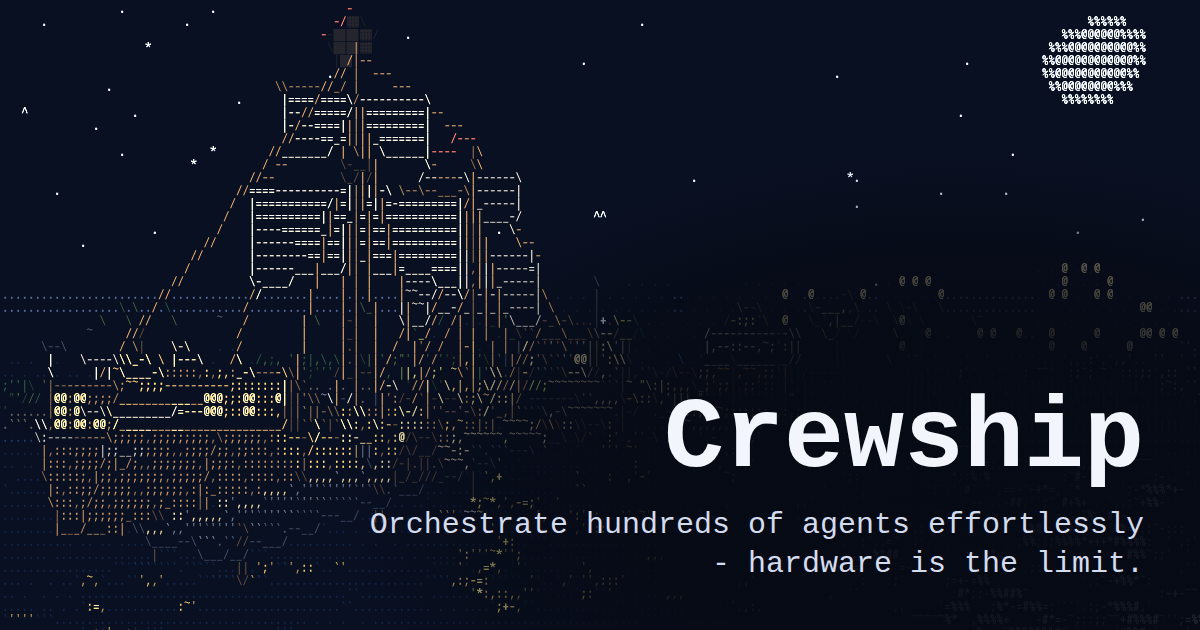
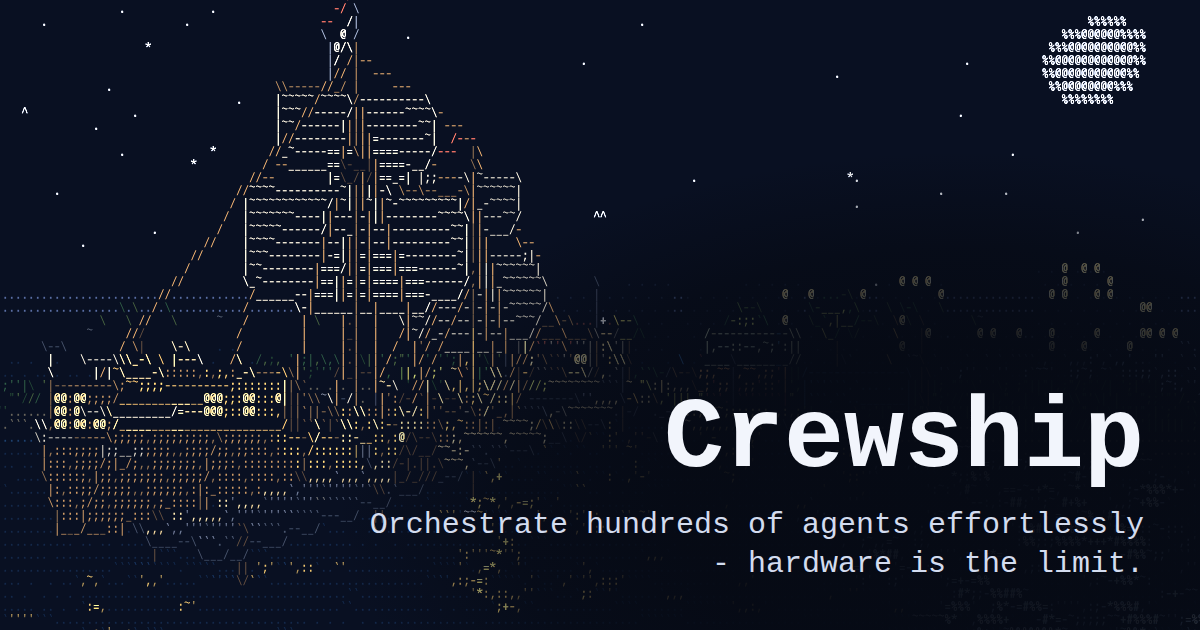
feat(harbor): sag the sail feet and fly a black Jolly Roger
From the default and bow views the sails still read as flat panels
with a blotchy bright patch. Each foot now sags in an arc between its
corners and the sides bow out. The canvas shading now follows the
belly: it is brightest where the cloth stands out farthest and a few
glyph steps darker toward the edges, with no seam lines across it.

The flag read as a dark grey square. It is now a larger black flag:
only its pale outline, its folds and a pale skull and crossbones
show, and its fly edge waves as it streams with the pennant.

Changed region(s): [[0.185, 0.1508, 0.4625, 0.5429], [0.2775, 0.0, 0.3083, 0.1206], [0.37, 0.5429, 0.4008, 0.573]]

diff --git a/harbor/public/harbor.js b/harbor/public/harbor.js
@@ -95,41 +95,50 @@ function beam(list, a, b, mat, o = {}, r = 0.03) {
   const bb = [...a.map((c, i) => Math.min(c, b[i]) - r), ...a.map((c, i) => Math.max(c, b[i]) + r)];
   return solid(list, planes, bb, mat, { solid: false, thin: true, ...o });
 }
-// Cloth hangs from `at`: u runs along the level unit (cu, su), v runs down to its foot, and the cloth stands out
-// clothDepth along the level normal (-su, cu). size is [u0, u1, v1, w0, w1]; rays search the box that holds every shape
-// the cloth takes. shape sets the wind's belly (and its resting value, base), a flag's ripple and its phase, and roach,
-// how far the foot arches up between the corners. Every cloth has the same fields, so the ray tests stay monomorphic.
+// Cloth hangs from `at`: u runs along the level unit (cu, su), v runs down, and the cloth stands out clothDepth along
+// the level normal (-su, cu). size is [u0, u1, v1, w0, w1]: rays search the box that holds every shape the cloth takes,
+// and clothInside trims that to the cloth's outline. shape sets half, the cloth's half width (a flag's length); the
+// wind's belly and its resting value, base; how far the foot sags (sag, of v1) and the leeches bow out (bow, of half);
+// or a flag's ripple and its phase. Every cloth has the same fields, so the ray tests stay monomorphic.
 function cloth(list, at, cu, su, [u0, u1, v1, w0, w1], shape, mat, o) {
   const xs = [], zs = [];
   for (const u of [u0, u1]) for (const w of [w0, w1]) { xs.push(at[0] + u * cu - w * su); zs.push(at[2] + u * su + w * cu); }
   const s = box(list, Math.min(...xs), at[1] - v1, Math.min(...zs), Math.max(...xs), at[1], Math.max(...zs), mat, { solid: false, thin: true, ...o });
-  s.cloth = { at, cu, su, u0, u1, v1, w0, w1, ku: 1 / u1, kv: 1 / v1, base: 0, belly: 0, ripple: 0, phase: 0, roach: 0, ...shape };
+  s.cloth = { at, cu, su, u0, u1, v1, w0, w1, half: shape.half, ku: 1 / shape.half, kv: 1 / v1, base: 0, belly: 0, sag: 0, bow: 0,
+    ripple: 0, phase: 0, ...shape };
   return s.cloth;
 }
 // How far cloth k stands out at (u, v): a polynomial belly, deepest low across the middle and shallower toward the
-// corners, or a ripple that grows toward a flag's fly. Rays evaluate it often, so the belly uses products, not quotients
-// or Math.sin.
+// corners, or a ripple that grows toward a flag's fly. Rays evaluate it often, so the belly uses products, not
+// quotients or Math.sin.
 function clothDepth(k, u, v) {
   const a = u * k.ku, b = v * k.kv;
   if (k.ripple) return k.ripple * a * Math.sin(u * 2.4 + v * 0.5 - k.phase);
-  return k.belly * ((1 - a * a) * b * (2.6 - 1.8 * b) + 0.3 * b * b);
+  return k.belly * (Math.max(0, 1 - a * a) * b * (2.6 - 1.8 * b) + 0.3 * b * b);
 }
 // The change of clothDepth along u and along v, in SLOPE.
 const SLOPE = new Float64Array(2);
 function clothSlope(k, u, v) {
-  const a = u * k.ku, b = v * k.kv;
+  const a = u * k.ku, b = v * k.kv, across = Math.max(0, 1 - a * a);
   if (k.ripple) {
     const p = u * 2.4 + v * 0.5 - k.phase, c = Math.cos(p);
     SLOPE[0] = k.ripple * k.ku * (Math.sin(p) + 2.4 * u * c); SLOPE[1] = k.ripple * k.ku * 0.5 * u * c;
     return;
   }
-  SLOPE[0] = -2 * a * b * (2.6 - 1.8 * b) * k.belly * k.ku;
-  SLOPE[1] = ((1 - a * a) * (2.6 - 3.6 * b) + 0.6 * b) * k.belly * k.kv;
+  SLOPE[0] = across > 0 ? -2 * a * b * (2.6 - 1.8 * b) * k.belly * k.ku : 0;
+  SLOPE[1] = (across * (2.6 - 3.6 * b) + 0.6 * b) * k.belly * k.kv;
 }
-// How far down cloth k reaches at u.
+// How far down cloth k reaches at u: a sail's foot sags in an arc between its corners.
 function clothFoot(k, u) {
   const a = u * k.ku;
-  return k.v1 * (1 - k.roach * (1 - a * a));
+  return k.v1 * (1 - k.sag * a * a);
+}
+// Is (u, v) on cloth k? Above the foot, and within the leeches, which bow out between the head and the corners; a
+// flag's fly edge waves instead.
+function clothInside(k, u, v) {
+  const a = u * k.ku, c = Math.min(1, v * k.kv / (1 - k.sag));
+  if (k.ripple) return a <= 0.9 + 0.1 * Math.sin(v * 5 - k.phase);
+  return v <= clothFoot(k, u) && Math.abs(a) <= 1 + k.bow * 4 * c * (1 - c);
 }
 // The point of cloth k at (u, v), written into p.
 function clothPoint(k, u, v, p = [0, 0, 0]) {
@@ -617,26 +626,27 @@ shipLantern(1.15, DECK, 3, false, 0.7);
 shipLantern(SX - 3.55, DECK, -4, false, SX - 3.1);
 shipLantern(SX, 2.63, 10, true);
 // Square canvas hangs from horizontal yards braced round on each mast, and the wind across a sail fills it to leeward:
-// the head stays on its yard, the belly is deepest across the middle low down, the corners sag less, and the foot
-// arches up between them.
+// the head stays on its yard, the belly is deepest across the middle low down, the foot sags in an arc between the
+// corners, and the leeches bow out.
 const SAILS = [];
 function squareSail(z, top, width, drop) {
   const c = Math.cos(0.6), s = Math.sin(0.6), belly = 0.45 * width * WIND.strength * (WIND.z * c - WIND.x * s);
-  // The deepest canvas above the foot stands 1.09 bellies out, and up to 10% more as the sail breathes.
-  const deep = 1.2 * belly;
+  // The corners hang drop - 0.1 below the yard, and the foot sags 13% lower between them. The deepest canvas stands
+  // 1.13 bellies out, and up to 10% more as the sail breathes.
+  const sag = 0.13, bow = 0.08, v1 = (drop - 0.1) / (1 - sag), deep = 1.25 * belly;
   beam(ship, [SX - (width + 0.2) * c, top, z - (width + 0.2) * s],
     [SX + (width + 0.2) * c, top, z + (width + 0.2) * s],
     "o", { spot: "mast", anchor: false, fill: 0.5 }, 0.075);
-  const sail = cloth(ship, [SX, top - 0.1, z], c, s, [-width, width, drop - 0.1, Math.min(0, deep), Math.max(0, deep)],
-    { base: belly, belly, roach: 0.3 }, "s", { tex: sailTexture, fill: 0.8 });
+  const sail = cloth(ship, [SX, top - 0.1, z], c, s, [-width * (1 + bow), width * (1 + bow), v1, Math.min(0, deep), Math.max(0, deep)],
+    { half: width, base: belly, belly, sag, bow }, "s", { tex: sailTexture, fill: 0.8 });
   SAILS.push(sail);
   return sail;
 }
-// Seams between the cloths and reef bands, each about one cell (`cell` metres) wide, in the sail's own (u, v): they
-// follow the canvas as it fills, so they bunch and bow where it curves away. Farther off, where cells grow past a
-// quarter metre, the lines would cover much of the canvas, so they are left out.
-function sailTexture(u, v, cell) {
-  return cell < 0.25 && ((u + 100) % 1.25 < cell * 0.6 || (v + 0.4) % 1.6 < cell * 1.2) ? "-" : null;
+// Two reef bands, each about one cell (`cell` metres) thick, cross the canvas parallel to its sagging foot. Farther off,
+// where cells grow past a quarter metre, the bands would cover much of the canvas, so they are left out.
+function sailTexture(u, v, cell, k) {
+  const foot = clothFoot(k, u), s = 3 * v / foot;
+  return cell < 0.25 && s > 0.5 && s < 2.5 && Math.abs(s - Math.round(s)) * foot / 3 < cell * 0.6 ? "-" : null;
 }
 const RIGGING = [], CLEWS = [];
 function shipMast(z, foot, height, width) {
@@ -647,14 +657,14 @@ function shipMast(z, foot, height, width) {
       const [w, y] = shipProfile(z + dz);
       shipRope([SX, height - 3, z], [SX + side * w, y + 0.3, z + dz]);
     }
-    sheet(topsail, side, clothPoint(course, side * course.u1, 0));
+    sheet(topsail, side, clothPoint(course, side * course.half, 0));
     sheet(course, side);
   }
 }
 // A sheet runs taut from a sail's lower corner, which moves as the canvas fills, to `to`: by default the rail
 // 2.5 m aft of the corner.
 function sheet(sail, side, to) {
-  const clew = clothPoint(sail, side * sail.u1, sail.v1);
+  const clew = clothPoint(sail, side * sail.half, clothFoot(sail, side * sail.half));
   CLEWS.push([sail, side, clew]);
   if (!to) {
     const z = clew[2] - 2.5, [w, y] = shipProfile(z);
@@ -726,17 +736,21 @@ function drawRigging() {
   }
 }
 column(ship, SX, -3, 0.8, 0.85, 13.7, 14.4, "o", { spot: "nest", tex: (x, y) => (y < 13.85 ? "-" : null) });
-// The flagstaff tops the main mast. The black flag streams downwind from it, rippling out to the fly.
-column(ship, SX, -3, 0.055, 0.055, 20.5, 22.7, "o", { solid: false, fill: 0.42 });
-const FLAG = cloth(ship, [SX, 22.1, -3], WIND.x, WIND.z, [0, 3.4, 2.1, -0.35, 0.35], { ripple: 0.3 }, "p",
+// The flagstaff tops the main mast. The black flag streams downwind from it, rippling out to its wavy fly.
+column(ship, SX, -3, 0.055, 0.055, 20.5, 23.4, "o", { solid: false, fill: 0.42 });
+const FLAG = cloth(ship, [SX, 22.9, -3], WIND.x, WIND.z, [0, 5.2, 3, -0.15, 0.15], { half: 5.2, ripple: 0.12 }, "p",
   { flag: true, tex: pirateFlag });
-function pirateFlag(u, v) {
-  const x = (u - 1.7) / 1.1, y = (1.05 - v) / 0.65;
-  if (x * x + (y - 0.2) * (y - 0.2) < 0.22) return "s";
-  return y < 0 && Math.abs(Math.abs(x) + y + 0.5) < 0.12 ? "s" : null;
+// The Jolly Roger in the flag's (u, v): a pale skull with dark eyes and a jaw over two crossed bones, which keep about
+// a cell (`cell` metres) thick and take the slanted glyph of their direction.
+function pirateFlag(u, v, cell) {
+  const x = (u - 2.5) / 0.7, y = (v - 1.12) / 0.56, bx = u - 2.5, by = v - 1.8, thick = Math.max(0.15, cell * 0.6);
+  if (x * x + y * y < 1) return Math.abs(Math.abs(x) - 0.42) < 0.24 && Math.abs(y + 0.05) < 0.3 ? " " : "@";
+  if (Math.abs(x) < 0.5 && y >= 1 && y < 1.55) return "@";
+  if (Math.abs(bx) > 1.45) return null;
+  return Math.abs(by - 0.55 * bx) < thick ? "\\" : Math.abs(by + 0.55 * bx) < thick ? "/" : null;
 }
 // Red pennants stream downwind from the mastheads and wave more toward the tip; like the stays, they are projected lines.
-const PENNANTS = [[SX, 22.65, -3], [SX, 18.15, 6]];
+const PENNANTS = [[SX, 23.35, -3], [SX, 18.15, 6]];
 function drawPennants() {
   for (const [x, y, z] of PENNANTS) {
     let a = [x, y, z];
@@ -752,7 +766,7 @@ function drawPennants() {
 // The wind breathes: each sail fills and eases a little, slowly, its sheets follow, and the flag's ripples run out.
 function billow() {
   for (const sail of SAILS) sail.belly = sail.base * (1 + 0.1 * Math.sin(T * 1.1 - sail.at[2] * 0.25 - sail.at[1] * 0.1));
-  for (const [sail, side, clew] of CLEWS) clothPoint(sail, side * sail.u1, sail.v1, clew);
+  for (const [sail, side, clew] of CLEWS) clothPoint(sail, side * sail.half, clothFoot(sail, side * sail.half), clew);
   FLAG.phase = T * 2.8;
 }
 // The bowsprit extends forward along the keel, away from the breakwater tower.
@@ -1310,13 +1324,15 @@ function clothRoot(k, a, fa, b, fb) {
   if ((fa <= 0) === (fh <= 0)) { a = h; fa = fh; } else { b = h; fb = fh; }
   const m = a + (b - a) * fa / (fa - fb), fm = clothGap(k, m);
   const t = (fa <= 0) === (fm <= 0) ? m + (b - m) * fm / (fm - fb) : a + (m - a) * fa / (fa - fm);
-  return RAY[1] + t * RAY[4] <= clothFoot(k, RAY[0] + t * RAY[3]) ? t : Infinity;
+  const u = RAY[0] + t * RAY[3], v = RAY[1] + t * RAY[4];
+  return clothInside(k, u, v) ? t : Infinity;
 }
-// The normal of cloth k at (u, v), in hitN, from the slope of its depth.
-function clothNormal(k, u, v) {
+// Which side of cloth k a ray (dx, dy, dz) meets at (u, v), as face 13 or 14 from the sign of the cloth's normal along
+// the ray, so an edge marks where the cloth folds out of sight.
+function clothSide(k, u, v, dx, dy, dz) {
   clothSlope(k, u, v);
-  const du = SLOPE[0], dv = SLOPE[1], nx = -du * k.cu - k.su, nz = k.cu - du * k.su, l = Math.sqrt(nx * nx + dv * dv + nz * nz);
-  hitN[0] = nx / l; hitN[1] = dv / l; hitN[2] = nz / l;
+  const du = SLOPE[0];
+  return (-du * k.cu - k.su) * dx + SLOPE[1] * dy + (k.cu - du * k.su) * dz > 0 ? 13 : 14;
 }
 // Solids come nearest first, so once the nearest possible point of the next one is past the hit, none can come closer.
 function trace(list, col, ox, oy, oz, dx, dy, dz) {
@@ -2206,26 +2222,29 @@ function textureColor(s, tex, b, fog, warm) {
 function shipFill(s, tex, b, fog) {
   return s.fill ? Math.max(b, s.fill * fog * (tex === "-" ? 0.65 : 1)) : b;
 }
-// Canvas and flags use fixed moon tones, without point-light or shadow work. Their curves shade them: thin cloth
-// takes the moon on either side, and cloth turned toward you is brighter. The canvas keeps its flat colour, so it stays
-// pale and its rows draw in few runs; the glyphs carry the shading. Each side of the cloth is its own face, so an edge
-// marks where the cloth folds out of sight.
+// Canvas and the flag use fixed tones, without point-light or shadow work.
 function paintShipCloth(c, odd, dx, dy, dz) {
-  const s = hitS, k = s.cloth, t = hitT;
+  const s = hitS, k = s.cloth, t = hitT, cell = t * 2 * cam.tanV / rows;
   const qx = cam.lx + dx * t - k.at[0], qz = cam.z + dz * t - k.at[2], u = qx * k.cu + qz * k.su, v = k.at[1] - cam.ly - dy * t;
-  clothNormal(k, u, v);
-  const nx = hitN[0], ny = hitN[1], nz = hitN[2], along = nx * dx + ny * dy + nz * dz;
-  const light = 0.5 * Math.abs(nx * MOON[0] + ny * MOON[1] + nz * MOON[2]) + 0.5 * along * along;
-  const tex = s.tex(u, v, t * 2 * cam.tanV / rows);
-  let ch, cls;
-  if (s.flag) {
-    ch = tex ? "@" : light > 0.6 ? "█" : light > 0.35 ? "▓" : "▒"; cls = tex ? "s6" : "p";
-  } else {
-    const flat = s.fill * Math.exp(-t * 0.016);
-    ch = glyph(flat * (0.75 + 0.5 * light) * (tex ? 0.65 : 1), odd); cls = "s" + tier(flat, 0);
-  }
-  put(c, ch, cls, s.id * 16 + (along > 0 ? 13 : 14), t);
+  const id = s.id * 16 + clothSide(k, u, v, dx, dy, dz);
+  if (s.flag) paintFlag(c, id, t, s.tex(u, v, cell), k);
+  else paintCanvas(c, odd, id, t, s, k, u, v, qz * k.cu - qx * k.su, cell);
   SP[c] = s.spot;
+}
+// The black flag leaves its cloth dark, so only its pale outline and the folds of its ripples show around the pale
+// Jolly Roger. The bones' slanted glyphs mirror when the flag's u runs to the left on screen.
+function paintFlag(c, id, t, mark, k) {
+  const mirror = k.cu * cam.r[0] + k.su * cam.r[2] < 0;
+  const ch = !mark ? " " : mirror && mark === "/" ? "\\" : mirror && mark === "\\" ? "/" : mark;
+  put(c, ch, mark ? "s7" : "t3", id, t);
+}
+// Canvas brightness follows the belly: brightest where the cloth stands farthest out (w, the hit's depth) and a few glyph
+// steps darker toward its edges. The canvas keeps its flat colour tier, so it stays pale and its rows draw in few runs.
+const CANVAS_TIERS = ["s0", "s1", "s2", "s3", "s4", "s5", "s6", "s7"];
+function paintCanvas(c, odd, id, t, s, k, u, v, w, cell) {
+  const flat = s.fill * Math.exp(-t * 0.016), belly = k.belly ? w / (k.belly * 1.13) : 0;
+  const b = flat * (0.88 + 0.3 * belly) * (s.tex(u, v, cell, k) ? 0.85 : 1);
+  put(c, glyph(b, odd), CANVAS_TIERS[Math.min(7, Math.floor(flat * 9))], id, t);
 }
 function shadeSolid(c, odd, onShip, dx, dy, dz, ldx, ldy) {
   if (hitS.cloth) paintShipCloth(c, odd, ldx, ldy, dz);

diff --git a/harbor/public/how.html b/harbor/public/how.html
@@ -31,7 +31,8 @@
   Exterior solids cast shadows when shadow rays are enabled, except the thin raised cabin trim.
   A shadow ray skips the solid being lit, because a convex solid cannot shade its own lit face.
   The lighthouse beam sweeps; the moon gives a dim fill.
-  Ship sails and the flag bypass lamp and shadow calculations; the moon and the view angle shade their curves, and fog still dims the sails.
+  Ship sails and the flag bypass lamp and shadow calculations; sails are brightest where they belly out farthest, and fog still dims them.
+  The black flag draws only its outline, its folds and its pale skull and crossbones.
   The house's lamp and fire and the cabin's hanging lantern light nearby room surfaces without shadow rays.
   The cabin's wall lantern glows like the lit windows but lights no other surface.
   The sea shows Fresnel reflection, moon and lamp highlights and foam.

diff --git a/tests/test_harbor_ship.py b/tests/test_harbor_ship.py
@@ -121,9 +121,9 @@ assert.equal(cell(SX,11)[1], 'o', 'the map must retain the raised bow');
 def test_ship_canvas_stays_pale_and_flag_stays_black_at_night():
     _run_ship_scene(
         r"""
-function paintPart(s, y) {
-  cam.x = cam.lx = (s.bb[0] + s.bb[3]) / 2;
-  cam.y = cam.ly = y; cam.z = s.bb[2] - 4;
+function paintPart(s, y, x = (s.bb[0] + s.bb[3]) / 2) {
+  cam.x = cam.lx = x;
+  cam.y = cam.ly = y; cam.z = s.bb[2] - 4; cam.r = [1, 0, 0]; cam.tanV = 0.62;
   hitS = s; hitT = hit(s, cam.lx, cam.ly, cam.z, 0, 0, 1); hitK = entryK;
   shadeSolid(0, 0, true, 0, 0, 1, 0, 0);
   return COLORS[C[0]].slice(1).match(/../g).map(v => parseInt(v, 16));
@@ -131,8 +131,11 @@ function paintPart(s, y) {
 const canvasPart = ship.find(s => s.tex === sailTexture);
 const pale = paintPart(canvasPart, (canvasPart.bb[1] + canvasPart.bb[4]) / 2);
 assert(pale.every(v => v > 150), 'the canvas must remain pale under night lighting');
-const black = paintPart(ship.find(s => s.flag), 20.1);
-assert(black.every(v => v < 80), 'the pirate flag must retain a dark silhouette');
+const flag = ship.find(s => s.flag);
+paintPart(flag, FLAG.at[1] - 2.8);
+assert.equal(G[0], ' ', 'the black flag must leave its cloth dark');
+const skull = paintPart(flag, FLAG.at[1] - 1.12, FLAG.at[0] + 2.5 * FLAG.cu);
+assert(G[0] === '@' && skull.every(v => v > 150), 'the skull must stand out pale on the black flag');
 const wood = paintPart(ship.find(s => s.hull), 0.15);
 assert(wood[0] - wood[1] > 20 && wood[1] - wood[2] > 20, 'the hull must keep its warm wood tone instead of using the cloth paint');
 """
@@ -143,7 +146,15 @@ def test_sails_fill_downwind_and_their_sheets_follow_the_corners():
     _run_ship_scene(
         r"""
 const part = cloth => ship.find(s => s.cloth === cloth);
-const corner = (sail, side) => clothPoint(sail, side * sail.u1, sail.v1);
+const corner = (sail, side) => clothPoint(sail, side * sail.half, clothFoot(sail, side * sail.half));
+for (const sail of SAILS) {
+  // Rays along the canvas normal: the foot sags below its corners in the middle, and the leeches bow out.
+  const s = part(sail), low = (clothFoot(sail, sail.half) + sail.v1) / 2;
+  const at = (u, v) => { const p = clothPoint(sail, u, v); return hit(s, p[0] + 10 * sail.su, p[1], p[2] - 10 * sail.cu, -sail.su, 0, sail.cu); };
+  assert(Number.isFinite(at(0, low)), 'the foot must sag below the corners in the middle');
+  assert.equal(at(0.95 * sail.half, low), Infinity, 'the foot must rise to the corners');
+  assert(Number.isFinite(at(1.03 * sail.half, clothFoot(sail, sail.half) / 2)), 'the leeches must bow out');
+}
 for (const sail of SAILS) {
   // A ray along the wind, aimed past the mast, meets the canvas well downwind of the yard.
   const from = [sail.at[0] - 20 * WIND.x, sail.at[1] - sail.v1 * 0.7, sail.at[2] - 20 * WIND.z];

diff --git a/harbor/README.md b/harbor/README.md
@@ -44,9 +44,11 @@ Ten steps with pale treads, darker risers, and a hand rail on each side connect 
 Map walks connect the dock through the gangway and reach the stern roof through the supported stairs.
 Ship approaches avoid deck obstacles and reject unsupported floors or height changes larger than the manual walking limit.
 One scene wind fills the sails into curved bellies that slowly fill and ease.
-The sheets stay taut to the moving sail corners, and the flag and the masthead pennants stream with the same wind.
+Each foot sags in an arc between its corners, and the sides bow out.
+The sheets stay taut to the moving sail corners.
+The black flag shows a pale skull and crossbones and has a wavy fly edge; it streams with the masthead pennants in the same wind.
 With reduced motion, the sails stay full but do not move.
-The sails keep a pale canvas tone at night, and their shading shows the curves.
+The sails keep a pale canvas tone at night and are brightest where they belly out farthest.
 Outboard lanterns make the gun ports visible.
 
 The plaza fountain has an octagonal stone rim, a central spout, and water that uses the existing animation clock.
